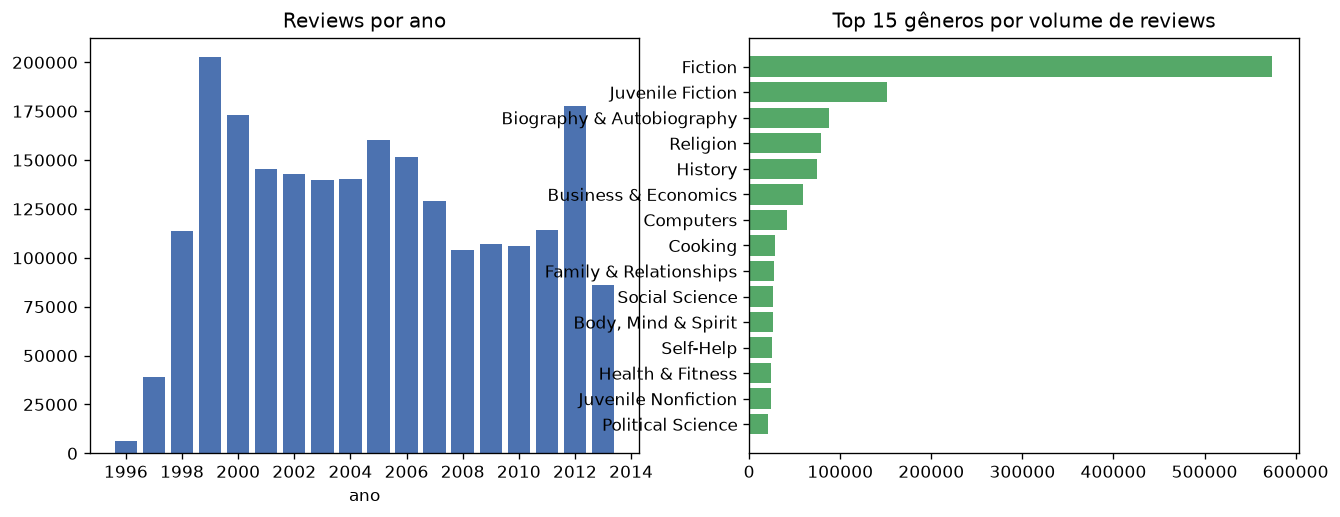
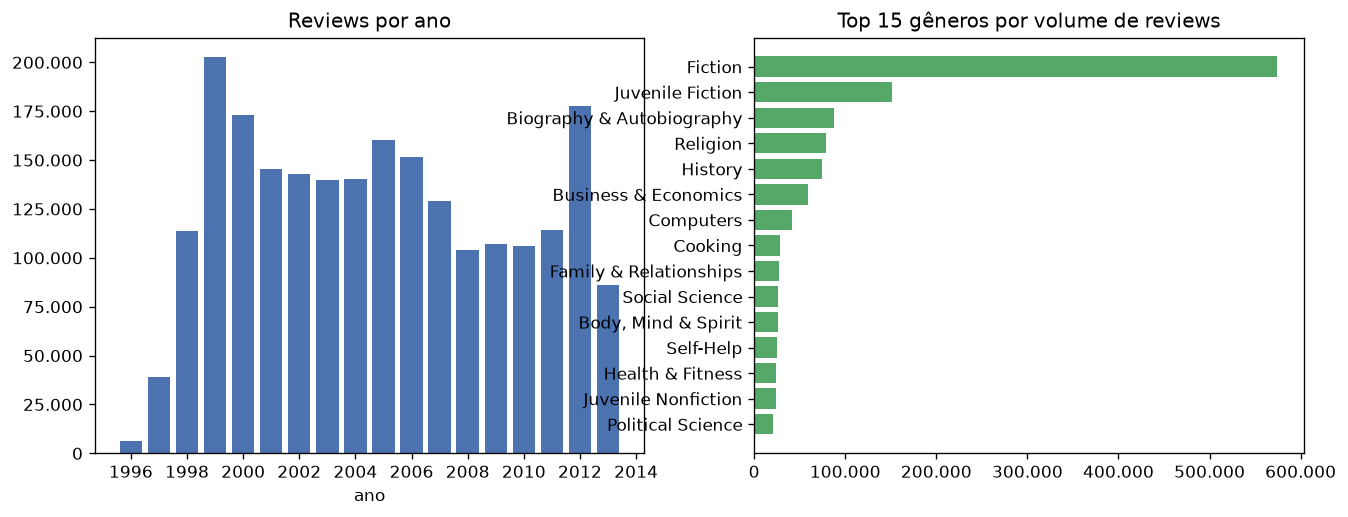
fix(eda): milhar com ponto nas figuras, em vez do padrão americano
O matplotlib rotulava 1,340,287 nos eixos de contagem, e estas figuras
alimentam a apresentação em português. Formatador aplicado aos cinco eixos
de contagem; figuras regeradas.

diff --git a/src/bri/data/eda.py b/src/bri/data/eda.py
@@ -10,8 +10,9 @@ import matplotlib
 matplotlib.use("Agg")
 
 import matplotlib.pyplot as plt  # noqa: E402
+from matplotlib.axes import Axes  # noqa: E402
 from matplotlib.figure import Figure  # noqa: E402
-from matplotlib.ticker import MaxNLocator  # noqa: E402
+from matplotlib.ticker import FuncFormatter, MaxNLocator  # noqa: E402
 
 from bri.data.process import BANCO  # noqa: E402
 
@@ -31,6 +32,13 @@ def _uma_linha(
     linha = con.execute(sql, params if params is not None else []).fetchone()
     assert linha is not None
     return linha
+
+
+def _milhar_pt_br(eixo: Axes, horizontal: bool = False) -> None:
+    """Milhar com ponto: o matplotlib rotula 1,340,287 no padrão americano, e estas figuras vão
+    para a apresentação em português."""
+    formatador = FuncFormatter(lambda valor, _: f"{valor:,.0f}".replace(",", "."))
+    (eixo.xaxis if horizontal else eixo.yaxis).set_major_formatter(formatador)
 
 
 def _salvar(fig: Figure, destino: Path, nome: str) -> None:
@@ -66,10 +74,12 @@ def figura_volume(con: duckdb.DuckDBPyConnection, destino: Path) -> dict[str, An
     ax1.set_title("Reviews por ano")
     ax1.set_xlabel("ano")
     ax1.xaxis.set_major_locator(MaxNLocator(integer=True))
+    _milhar_pt_br(ax1)
     ax2.barh(
         [c for c, _ in reversed(por_genero)], [n for _, n in reversed(por_genero)], color="#55A868"
     )
     ax2.set_title(f"Top {TOP_N} gêneros por volume de reviews")
+    _milhar_pt_br(ax2, horizontal=True)
     _salvar(fig, destino, "01_volume.png")
 
     return {"reviews_por_ano": dict(por_ano), "share_1pct_usuarios": concentracao[0]}
@@ -95,6 +105,7 @@ def figura_distribuicao_notas(con: duckdb.DuckDBPyConnection, destino: Path) -> 
     fig, ax = plt.subplots(figsize=(7, 4.5))
     ax.bar([str(r) for r, _ in global_], [n for _, n in global_], color="#C44E52")
     ax.set_title("Distribuição global de notas")
+    _milhar_pt_br(ax)
     ax.set_xlabel("nota")
     _salvar(fig, destino, "02_notas.png")
 
@@ -140,6 +151,7 @@ def figura_qualidade(con: duckdb.DuckDBPyConnection, destino: Path) -> dict[str,
     fig, ax = plt.subplots(figsize=(7, 4.5))
     ax.bar(rotulos, list(medidas), color="#937860")
     ax.set_title("Problemas de qualidade (contagem de reviews)")
+    _milhar_pt_br(ax)
     ax.set_yscale("log")
     _salvar(fig, destino, "04_qualidade.png")
 
@@ -166,6 +178,7 @@ def figura_top_autores(con: duckdb.DuckDBPyConnection, destino: Path) -> dict[st
     fig, (ax1, ax2) = plt.subplots(1, 2, figsize=(13, 5))
     ax1.barh([a for a, _ in reversed(por_volume)], [n for _, n in reversed(por_volume)])
     ax1.set_title(f"Top {TOP_N} autores por volume")
+    _milhar_pt_br(ax1, horizontal=True)
     # Dot plot com eixo ampliado: em barra começando em zero, notas entre 4,7 e 4,9 viram
     # 15 barras visualmente idênticas e o leitor conclui que há empate.
     autores = [a for a, _ in reversed(por_nota)]
